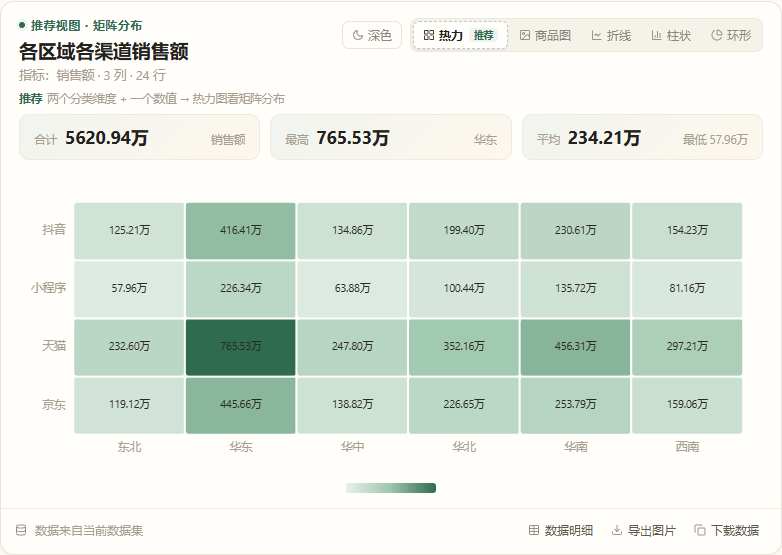
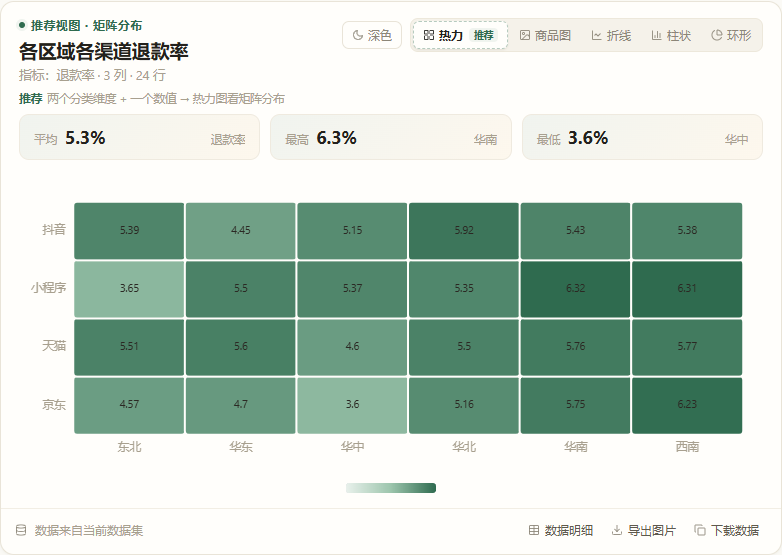
fix: 热力图数字叠加与退款率 KPI + 数据源保留/重置
- 热力图按 (行,列) 聚合去重，关闭热力动画并启用 hideOverlap，修复数字叠加
- “率”不再被当成占比：KPI 改为 平均/最高/最低，退款率不再显示合计 100%
- 切换数据源/文档时缓存对话，重新进入不再清空；新建对话才清空当前数据源
- 顶栏新增“重置数据源”按钮：重新读取原始文件并重建表（支持示例数据和上传数据），重置后清空当前对话

diff --git a/frontend/src/App.vue b/frontend/src/App.vue
@@ -1,4 +1,4 @@
-<script setup>
+<script setup>
 import { computed, onMounted, ref } from 'vue'
 import { api } from './api'
 import Sidebar from './components/Sidebar.vue'
@@ -31,6 +31,25 @@ const previewOpen = ref(false)
 const prefillQuestion = ref(null)
 const toast = ref('')
 let toastTimer = null
+const conversationCache = new Map()
+
+function currentConversationKey() {
+  if (activeDocument.value) return `doc:${activeDocument.value.id}`
+  if (activeDataset.value) return `data:${activeDataset.value.id}`
+  return ''
+}
+
+function snapshotConversation() {
+  const key = currentConversationKey()
+  if (!key) return
+  conversationCache.set(key, { messages: messages.value, response: activeResponse.value })
+}
+
+function restoreConversation(key) {
+  const cached = conversationCache.get(key)
+  messages.value = cached?.messages || []
+  activeResponse.value = cached?.response || null
+}
 
 const modelLabel = computed(() => {
   if (!health.value) return '连接中…'
@@ -65,17 +84,19 @@ onMounted(async () => {
 })
 
 function newChat() {
+  const key = currentConversationKey()
+  if (key) conversationCache.delete(key)
   messages.value = []
   activeResponse.value = null
 }
 
 async function selectDataset(row) {
+  snapshotConversation()
   try {
     const full = await api.getDataset(row.id)
     activeDataset.value = full
     activeDocument.value = null
-    messages.value = []
-    activeResponse.value = null
+    restoreConversation(`data:${full.id}`)
     inspectorOpen.value = false
   } catch (exc) {
     showToast('读取数据集失败：' + exc.message)
@@ -83,12 +104,12 @@ async function selectDataset(row) {
 }
 
 async function selectDocument(row) {
+  snapshotConversation()
   try {
     const full = await api.getDocument(row.id)
     activeDocument.value = full
     activeDataset.value = null
-    messages.value = []
-    activeResponse.value = null
+    restoreConversation(`doc:${full.id}`)
     inspectorOpen.value = false
   } catch (exc) {
     showToast('读取文档失败：' + exc.message)
@@ -96,6 +117,7 @@ async function selectDocument(row) {
 }
 
 function exitDocMode() {
+  snapshotConversation()
   activeDocument.value = null
   messages.value = []
   activeResponse.value = null
@@ -257,6 +279,29 @@ async function onAnalyzeDataset(datasetId) {
     showToast('切换数据集失败：' + exc.message)
   }
 }
+
+async function resetDataSource() {
+  const dataset = activeDataset.value
+  if (!dataset || loading.value) return
+  const confirmed = window.confirm(`确定重置「${dataset.name}」吗？\n会重新读取原始文件，并清空这个数据源的对话。`)
+  if (!confirmed) return
+  loading.value = true
+  try {
+    const info = await api.resetDataset(dataset.id)
+    conversationCache.delete(`data:${dataset.id}`)
+    messages.value = []
+    activeResponse.value = null
+    await refreshDatasets()
+    await selectDataset(info)
+    messages.value = []
+    activeResponse.value = null
+    showToast(`已重置数据源：${info.name}`)
+  } catch (exc) {
+    showToast('重置失败：' + (exc.message || '请检查后端服务'))
+  } finally {
+    loading.value = false
+  }
+}
 </script>
 
 <template>
@@ -282,6 +327,7 @@ async function onAnalyzeDataset(datasetId) {
         @toggle-inspector="inspectorOpen = !inspectorOpen"
         @preview="previewOpen = true"
         @exit-doc="exitDocMode"
+        @reset="resetDataSource"
       />
 
       <ChatThread

diff --git a/frontend/src/components/ChartCard.vue b/frontend/src/components/ChartCard.vue
@@ -105,7 +105,11 @@ const yIndexes = computed(() => {
 })
 
 function isShareColumn(name) {
-  return /占比|比例|百分比|%|率/.test(String(name || ''))
+  return /占比|比例|百分比|份额|%/.test(String(name || ''))
+}
+
+function isRateColumn(name) {
+  return /率/.test(String(name || ''))
 }
 
 // 购物袋图优先使用“销售额”这类绝对值列，而不是已经算好的占比列
@@ -232,7 +236,15 @@ const kpis = computed(() => {
   const stats = yStats.value
   const metric = columns.value[stats.yi] || '数值'
   const share = isShareColumn(metric)
-  const fmtValue = (value) => (share ? `${Math.min(100, Number(value) || 0).toFixed(1)}%` : fmt(value))
+  const rate = isRateColumn(metric)
+  const fmtValue = (value) => (share || rate ? `${Math.min(100, Number(value) || 0).toFixed(1)}%` : fmt(value))
+  if (rate) {
+    return [
+      { label: '平均', value: fmtValue(stats.avg), hint: metric },
+      { label: '最高', value: fmtValue(stats.maxValue), hint: stats.maxLabel },
+      { label: '最低', value: fmtValue(stats.minValue), hint: stats.minLabel }
+    ]
+  }
   return [
     { label: '合计', value: share ? '100%' : fmt(stats.sum), hint: metric },
     { label: '最高', value: fmtValue(stats.maxValue), hint: stats.maxLabel },
@@ -443,9 +455,23 @@ function buildOption(kind) {
     const valueIndex = numericIndexes.value[0]
     const xValues = [...new Set(data.map((row) => String(row[catX] ?? '-')))]
     const yValues = [...new Set(data.map((row) => String(row[catY] ?? '-')))]
-    const points = data
-      .map((row) => [xValues.indexOf(String(row[catX] ?? '-')), yValues.indexOf(String(row[catY] ?? '-')), Number(row[valueIndex]) || 0])
-      .filter((point) => point[0] >= 0 && point[1] >= 0)
+    // 同一个 (行, 列) 可能有多条记录，先聚合，避免标签叠在一起
+    const cellMap = new Map()
+    data.forEach((row) => {
+      const x = xValues.indexOf(String(row[catX] ?? '-'))
+      const y = yValues.indexOf(String(row[catY] ?? '-'))
+      const value = Number(row[valueIndex]) || 0
+      if (x < 0 || y < 0) return
+      const key = `${x}|${y}`
+      if (!cellMap.has(key)) {
+        cellMap.set(key, { x, y, sum: value, count: 1 })
+      } else {
+        const cell = cellMap.get(key)
+        cell.sum += value
+        cell.count += 1
+      }
+    })
+    const points = [...cellMap.values()].map((cell) => [cell.x, cell.y, cell.sum / cell.count])
     const values = points.map((point) => point[2])
     const min = Math.min(...values, 0)
     const max = Math.max(...values, 1)
@@ -476,6 +502,8 @@ function buildOption(kind) {
       },
       series: [{
         type: 'heatmap',
+        animation: false,
+        labelLayout: { hideOverlap: true },
         data: points,
         label: { show: true, color: th.ink, fontSize: 10.5, formatter: (item) => fmt(item.value[2]) },
         itemStyle: { borderColor: th.bg, borderWidth: 2, borderRadius: 4 },

diff --git a/frontend/src/components/Topbar.vue b/frontend/src/components/Topbar.vue
@@ -7,7 +7,7 @@ defineProps({
   health: { type: Object, default: null },
   inspectorOpen: { type: Boolean, default: false }
 })
-const emit = defineEmits(['toggle-inspector', 'preview', 'exit-doc'])
+const emit = defineEmits(['toggle-inspector', 'preview', 'exit-doc', 'reset'])
 </script>
 
 <template>
@@ -24,6 +24,9 @@ const emit = defineEmits(['toggle-inspector', 'preview', 'exit-doc'])
       </button>
       <button v-else-if="dataset" class="chip click" @click="emit('preview')">
         <span class="dot ok" />{{ dataset.source_file }}
+      </button>
+      <button v-if="dataset" class="chip click" title="重新读取原始文件并刷新数据源" @click="emit('reset')">
+        <Icon name="refresh" :size="12" />重置数据源
       </button>
       <span class="chip">
         <Icon name="cpu" :size="13" />{{ health?.mock_mode ? '演示模式' : (health?.model || '大模型') }}

diff --git a/frontend/src/api.js b/frontend/src/api.js
@@ -64,6 +64,7 @@ export const api = {
   preview: (id, limit = 50) => request(`/datasets/${id}/preview?limit=${limit}`),
   loadDemo: () => request('/datasets/demo', { method: 'POST' }),
   upload: (file) => uploadFile('/datasets/upload', file),
+  resetDataset: (id) => request(`/datasets/${id}/reset`, { method: 'POST' }),
   // 对话
   chat: (payload) => jsonPost('/chat', payload),
   runSql: (payload) => jsonPost('/query', payload),

diff --git a/backend/app/services/dataset_service.py b/backend/app/services/dataset_service.py
@@ -338,3 +338,21 @@ def delete_dataset(dataset_id: str) -> None:
         import shutil
         shutil.rmtree(upload_dir, ignore_errors=True)
     store.delete_dataset(dataset_id)
+
+
+def reset_dataset(dataset_id: str) -> DatasetInfo:
+    """重置数据源：重新读取原始文件并重建 DuckDB 表（对话在服务端不保留）。"""
+    meta = store.get_dataset(dataset_id)
+    if not meta:
+        raise ValueError("数据集不存在")
+    if dataset_id == config.DEMO_DATASET_ID:
+        delete_dataset(dataset_id)
+        return load_demo()
+    source_file = str(meta.get("source_file") or "")
+    source_path = config.UPLOADS_DIR / dataset_id / source_file
+    if not source_file or not source_path.exists() or not source_path.is_file():
+        raise ValueError("没有找到原始上传文件，无法重置；请重新导入数据")
+    data = source_path.read_bytes()
+    display_name = str(meta.get("name") or Path(source_file).stem)
+    delete_dataset(dataset_id)
+    return save_upload(source_file, data, display_name=display_name, dataset_id=dataset_id)

diff --git a/scripts/inspect_heatmap_query.py b/scripts/inspect_heatmap_query.py
@@ -1,0 +1,19 @@
+import json
+
+import httpx
+
+c = httpx.Client(timeout=180)
+datasets = c.get("http://127.0.0.1:8000/api/datasets").json()
+demo = [d for d in datasets if "双11" in d["name"]][0]
+for question in ["各区域各渠道的退款率", "各区域各渠道销售额"]:
+    r = c.post("http://127.0.0.1:8000/api/chat", json={"dataset_id": demo["id"], "question": question, "history": []}).json()
+    print("Q:", question)
+    print(" columns:", r["result"]["columns"])
+    rows = r["result"]["rows"]
+    print(" rows:", len(rows), "first:", rows[:4])
+    # 检查重复 (x,y)
+    if len(r["result"]["columns"]) >= 3:
+        cols = r["result"]["columns"]
+        pairs = [(str(row[0]), str(row[1])) for row in rows]
+        print(" unique pairs:", len(set(pairs)), "duplicates:", len(pairs) - len(set(pairs)))
+    print(" chart:", json.dumps(r.get("chart"), ensure_ascii=False))

diff --git a/scripts/test_dataset_reset.py b/scripts/test_dataset_reset.py
@@ -1,0 +1,13 @@
+import httpx
+
+BASE = "http://127.0.0.1:8000"
+csv = "区域,销售额\n华东,100\n华南,80\n".encode("utf-8")
+with httpx.Client(timeout=120) as c:
+    up = c.post(BASE + "/api/datasets/upload", files={"file": ("reset_test.csv", csv, "text/csv")}).json()
+    print("uploaded:", up["id"], up["name"], up["rows"])
+    reset = c.post(BASE + f"/api/datasets/{up['id']}/reset")
+    print("reset status:", reset.status_code)
+    data = reset.json()
+    print("after reset:", data.get("id"), data.get("name"), data.get("rows"), data.get("source_file"))
+    c.delete(BASE + f"/api/datasets/{up['id']}")
+    print("cleanup ok")

diff --git a/backend/app/routers/datasets.py b/backend/app/routers/datasets.py
@@ -47,6 +47,14 @@ def preview_dataset(dataset_id: str, limit: int = 50):
         raise HTTPException(status_code=404, detail=str(exc)) from exc
 
 
+@router.post("/{dataset_id}/reset", response_model=DatasetInfo, summary="重置数据源（重新读取原始文件）")
+def reset_dataset(dataset_id: str):
+    try:
+        return dataset_service.reset_dataset(dataset_id)
+    except ValueError as exc:
+        raise HTTPException(status_code=400, detail=str(exc)) from exc
+
+
 @router.delete("/{dataset_id}", summary="删除数据集")
 def delete_dataset(dataset_id: str):
     try:
